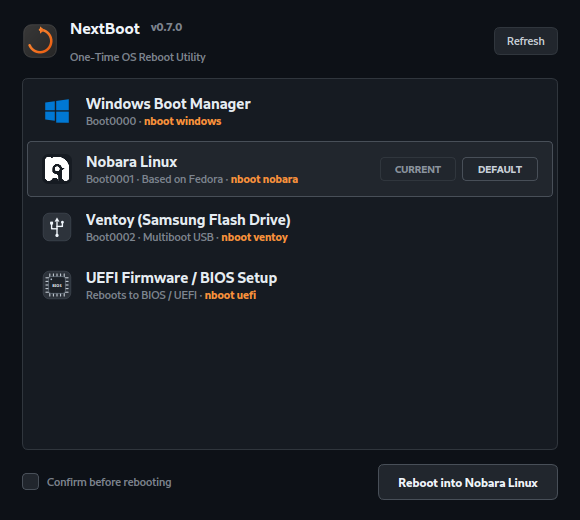
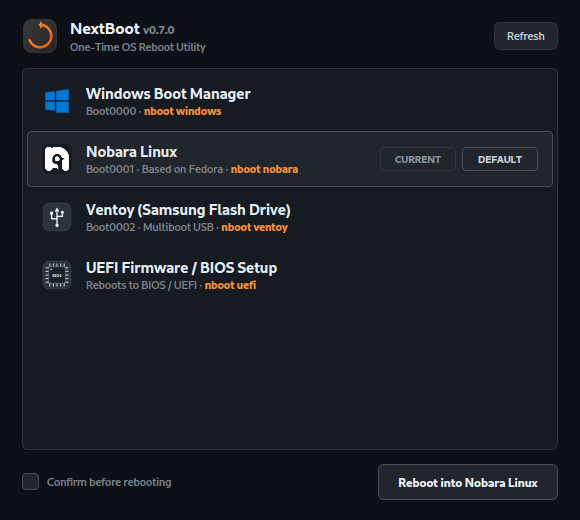
Align version label to text baseline of application title

Changed region(s): [[0.031, 0.0308, 0.9621, 0.4615], [0.0621, 0.4923, 0.4966, 0.5846], [0.869, 0.0615, 0.9621, 0.0923]]

diff --git a/nextboot_gui.py b/nextboot_gui.py
@@ -385,23 +385,16 @@ class NextBootWindow(QWidget):
             header.addWidget(brand_icon)
 
         title_vbox = QVBoxLayout()
-        title_row = QHBoxLayout()
-        title_row.setSpacing(8)
-        title_row.setAlignment(Qt.AlignmentFlag.AlignLeft | Qt.AlignmentFlag.AlignBottom)
+        title_vbox.setSpacing(2)
 
-        app_title = QLabel("NextBoot", self)
+        app_title = QLabel(
+            f"<span style='font-size: 16px; font-weight: bold; color: #f0f6fc;'>NextBoot</span> "
+            f"<span style='font-size: 11px; font-weight: 600; color: #7d8590;'>{__version__}</span>",
+            self,
+        )
+        app_title.setTextFormat(Qt.TextFormat.RichText)
         app_title.setObjectName("appTitle")
-        app_font = QFont()
-        app_font.setPointSize(16)
-        app_font.setBold(True)
-        app_title.setFont(app_font)
-        title_row.addWidget(app_title)
-
-        ver_lbl = QLabel(__version__, self)
-        ver_lbl.setStyleSheet("color: #7d8590; font-size: 11px; font-weight: 600; margin-bottom: 2px;")
-        title_row.addWidget(ver_lbl)
-
-        title_vbox.addLayout(title_row)
+        title_vbox.addWidget(app_title)
 
         app_desc = QLabel("One-Time OS Reboot Utility", self)
         app_desc.setObjectName("appSubtitle")
